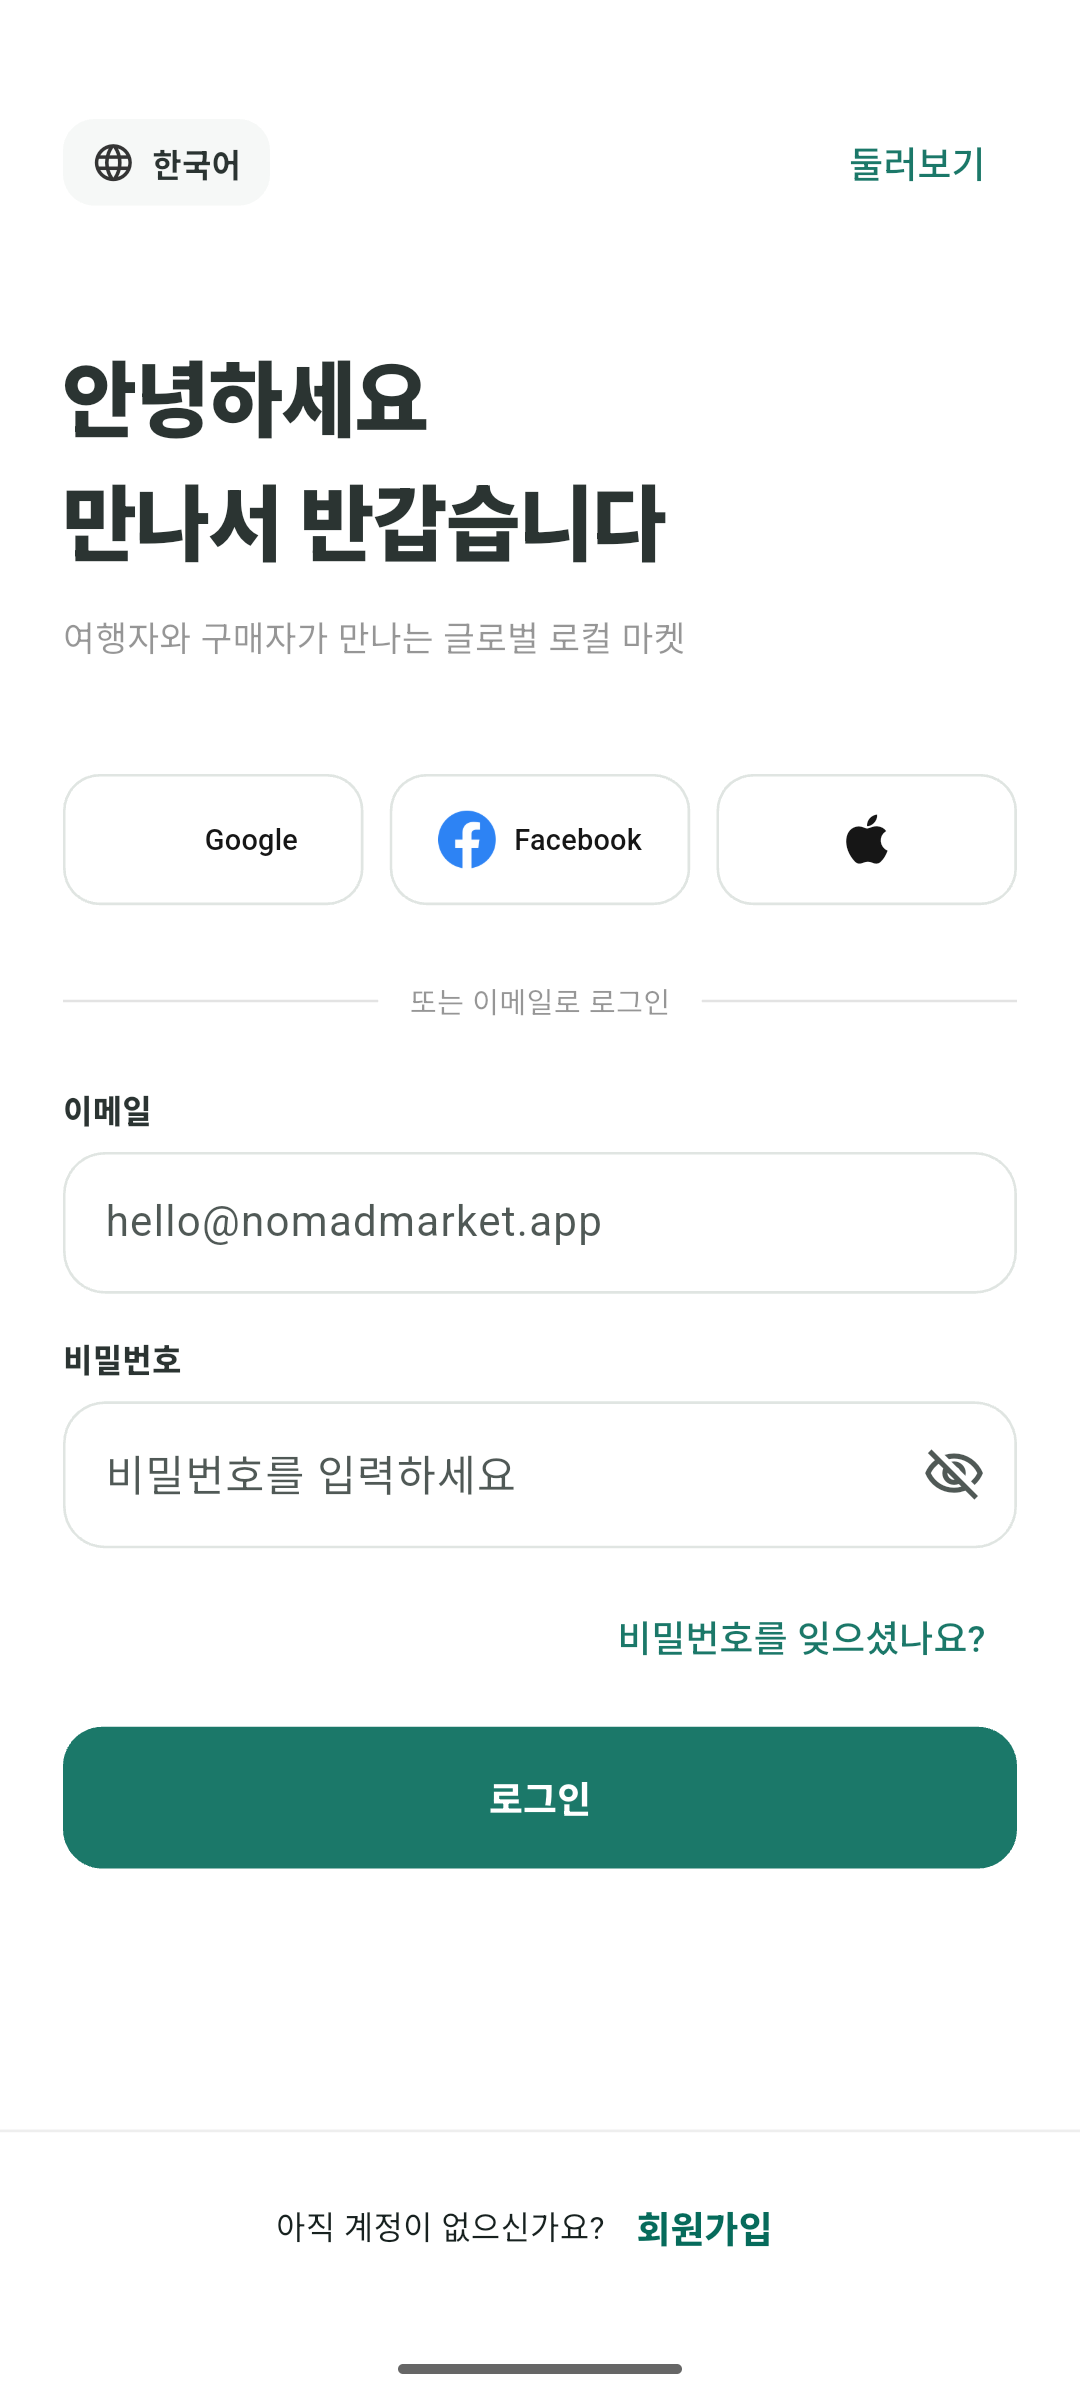
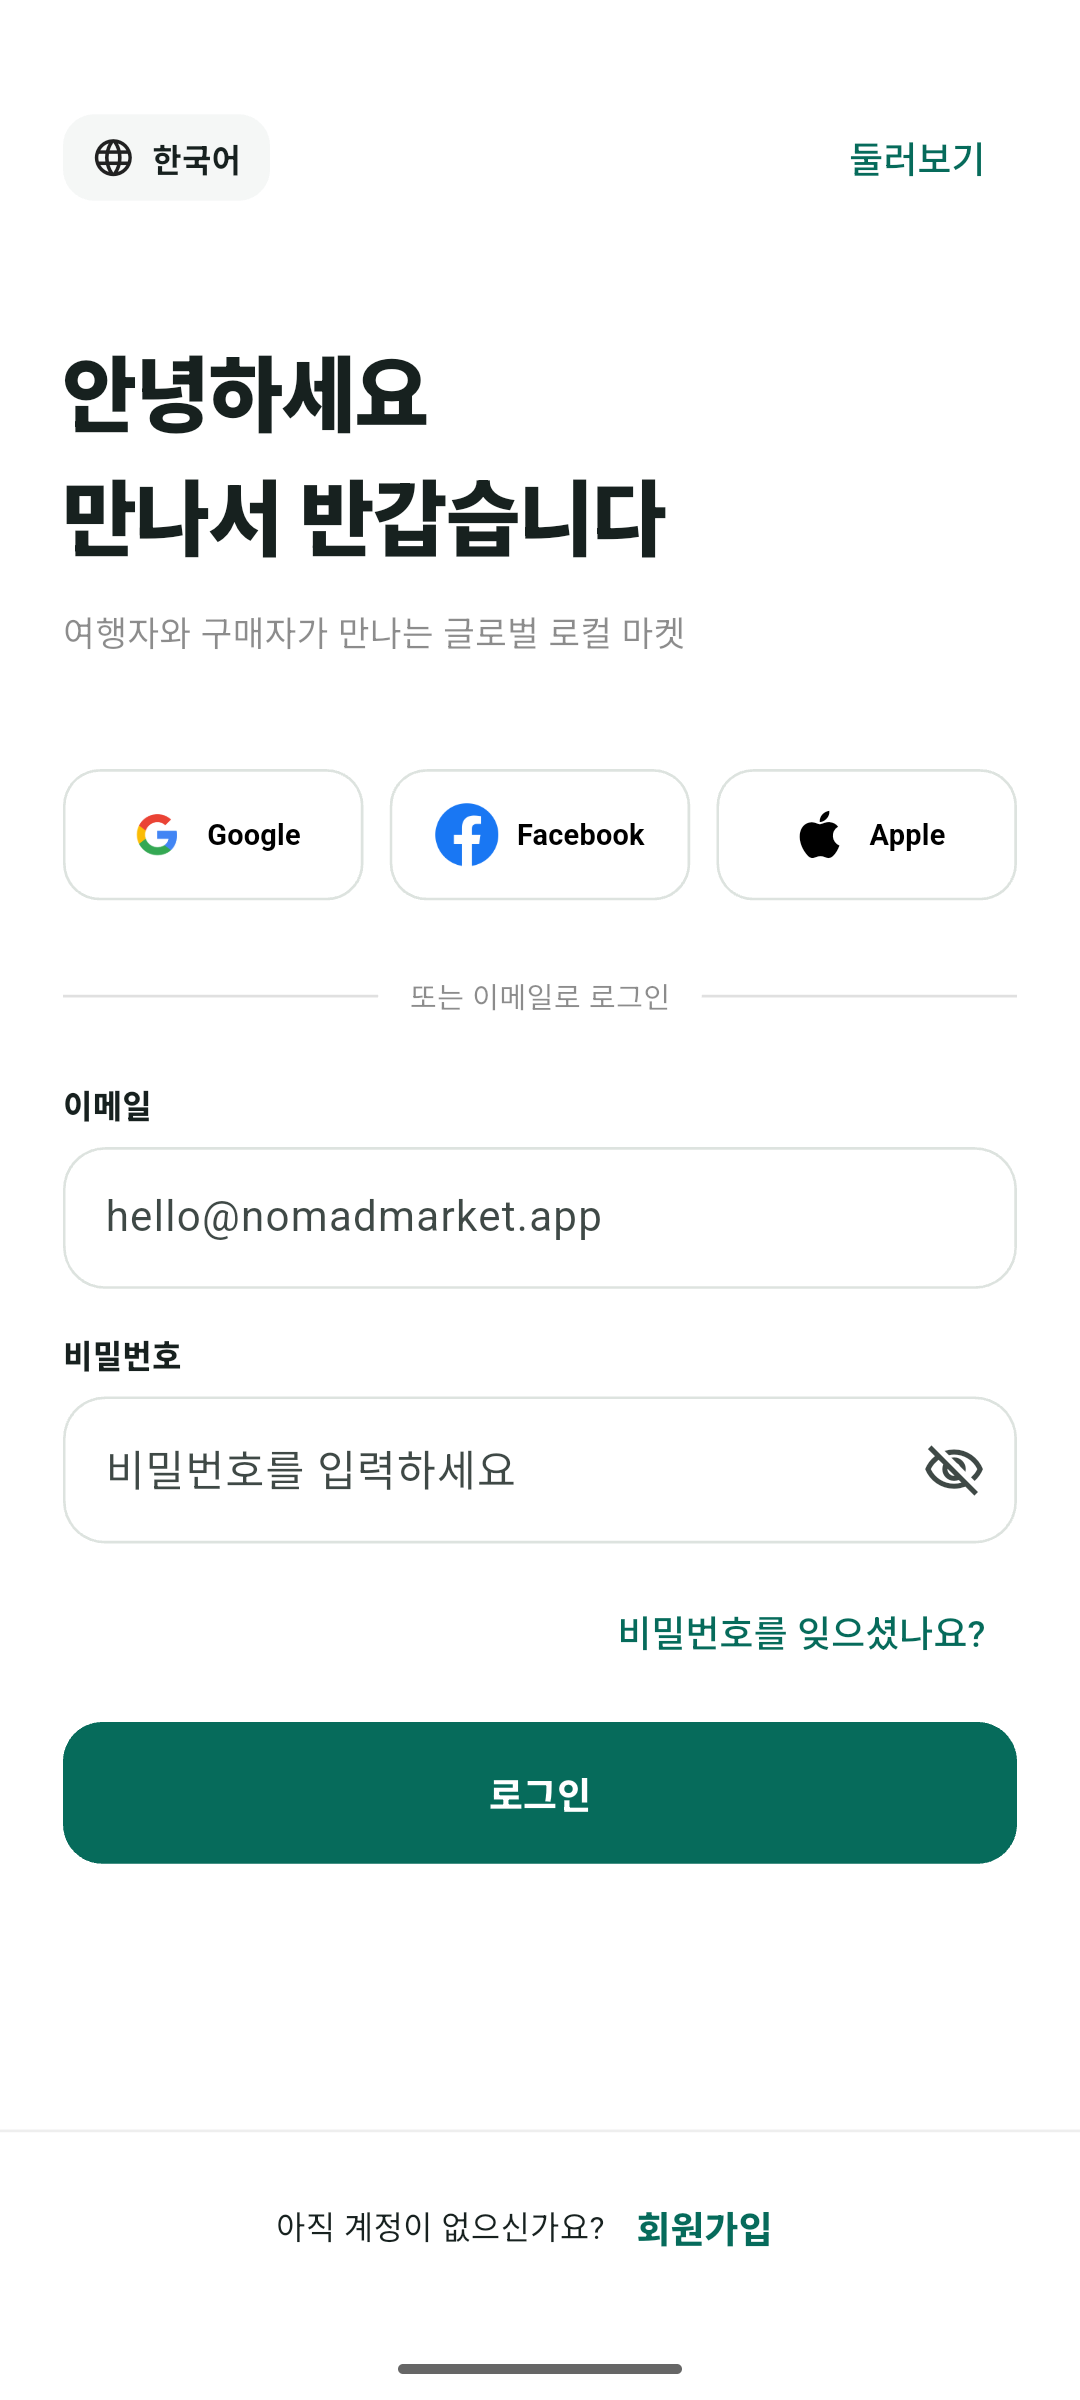
fix: polish social login buttons

diff --git a/lib/screens/login_screen.dart b/lib/screens/login_screen.dart
@@ -84,17 +84,11 @@ class _LoginScreenState extends State<LoginScreen> {
                       const SizedBox(height: 42),
                       Row(
                         children: [
-                          Expanded(child: _socialButton('assets/auth/google.png', 'Google')),
+                          Expanded(child: _socialAssetButton('assets/auth/google.png', 'Google')),
                           const SizedBox(width: 10),
-                          Expanded(child: _socialButton('assets/auth/facebook.png', 'Facebook')),
+                          Expanded(child: _socialAssetButton('assets/auth/facebook.png', 'Facebook')),
                           const SizedBox(width: 10),
-                          Expanded(
-                            child: OutlinedButton(
-                              onPressed: _enterMarket,
-                              style: _socialStyle(),
-                              child: const Icon(Icons.apple_rounded, color: Colors.black, size: 25),
-                            ),
-                          ),
+                          Expanded(child: _socialIconButton(Icons.apple_rounded, 'Apple')),
                         ],
                       ),
                       const SizedBox(height: 28),
@@ -179,16 +173,51 @@ class _LoginScreenState extends State<LoginScreen> {
     );
   }
 
-  Widget _socialButton(String asset, String label) {
+  Widget _socialAssetButton(String asset, String label) {
     return OutlinedButton(
       onPressed: _enterMarket,
       style: _socialStyle(),
       child: Row(
         mainAxisAlignment: MainAxisAlignment.center,
         children: [
-          Image.asset(asset, width: 22, height: 22),
+          SizedBox(
+            width: 24,
+            height: 24,
+            child: Image.asset(
+              asset,
+              fit: BoxFit.contain,
+              errorBuilder: (_, __, ___) => const Icon(Icons.public_rounded, size: 20, color: Colors.black87),
+            ),
+          ),
           const SizedBox(width: 7),
-          Flexible(child: Text(label, overflow: TextOverflow.ellipsis, style: const TextStyle(color: Colors.black, fontSize: 11))),
+          Flexible(
+            child: Text(
+              label,
+              overflow: TextOverflow.ellipsis,
+              style: const TextStyle(color: Colors.black, fontSize: 11, fontWeight: FontWeight.w700),
+            ),
+          ),
+        ],
+      ),
+    );
+  }
+
+  Widget _socialIconButton(IconData icon, String label) {
+    return OutlinedButton(
+      onPressed: _enterMarket,
+      style: _socialStyle(),
+      child: Row(
+        mainAxisAlignment: MainAxisAlignment.center,
+        children: [
+          Icon(icon, color: Colors.black, size: 24),
+          const SizedBox(width: 7),
+          Flexible(
+            child: Text(
+              label,
+              overflow: TextOverflow.ellipsis,
+              style: const TextStyle(color: Colors.black, fontSize: 11, fontWeight: FontWeight.w700),
+            ),
+          ),
         ],
       ),
     );
